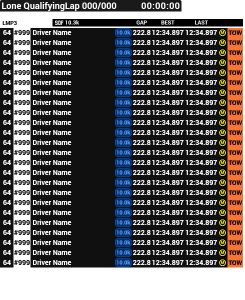
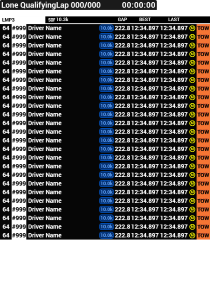
Added possibility to hide the other classes with Max = 0. Increased max row count for other classes to 5. Increased height of overlay.

diff --git a/Plugin/SettingsControl.xaml b/Plugin/SettingsControl.xaml
@@ -127,7 +127,7 @@
                         </StackPanel>
                         
                         <StackPanel Orientation="Horizontal">
-                            <ui:TitledSlider MinWidth="400" Title="Max Row Count (Other Classes)*" Maximum="3" Minimum="1" Value="{Binding Plugin.Modules[StandingsModule].Settings.MaxRowsOtherClasses, Mode=TwoWay, UpdateSourceTrigger=PropertyChanged}"
+                            <ui:TitledSlider MinWidth="400" Title="Max Row Count (Other Classes)*" Maximum="5" Minimum="0" Value="{Binding Plugin.Modules[StandingsModule].Settings.MaxRowsOtherClasses, Mode=TwoWay, UpdateSourceTrigger=PropertyChanged}"
                                             ToolTip="Maximum number of visible rows in the Standings leaderboard for other classes"/>
                         </StackPanel>
                         
